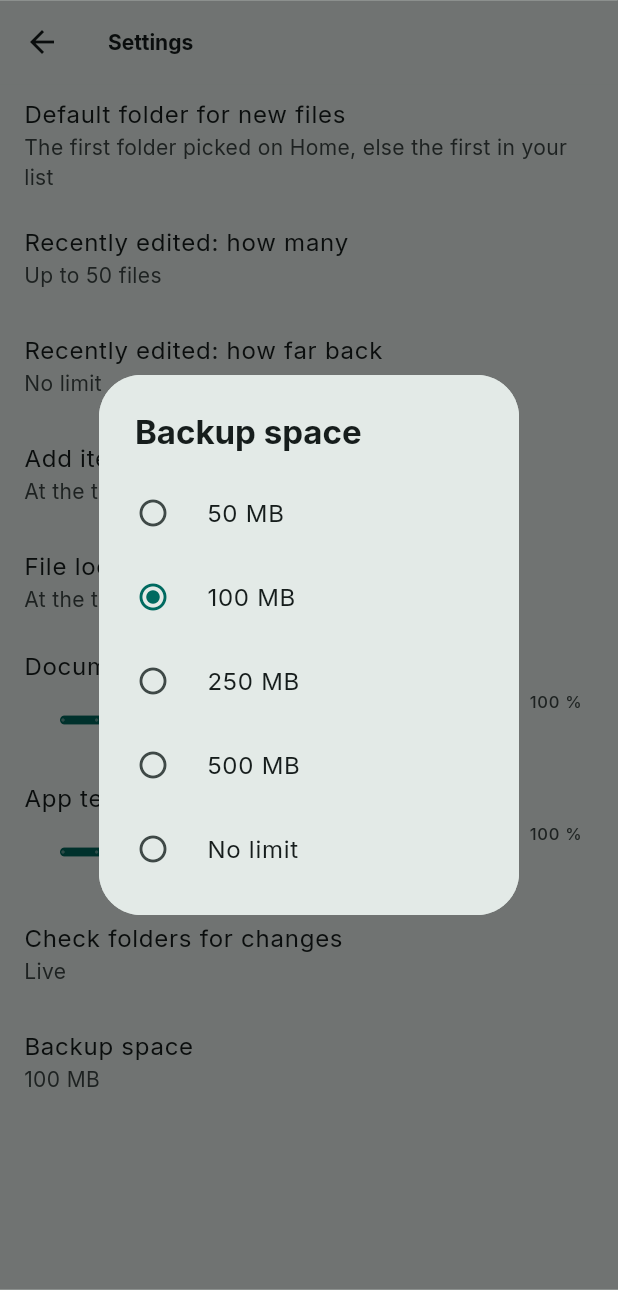
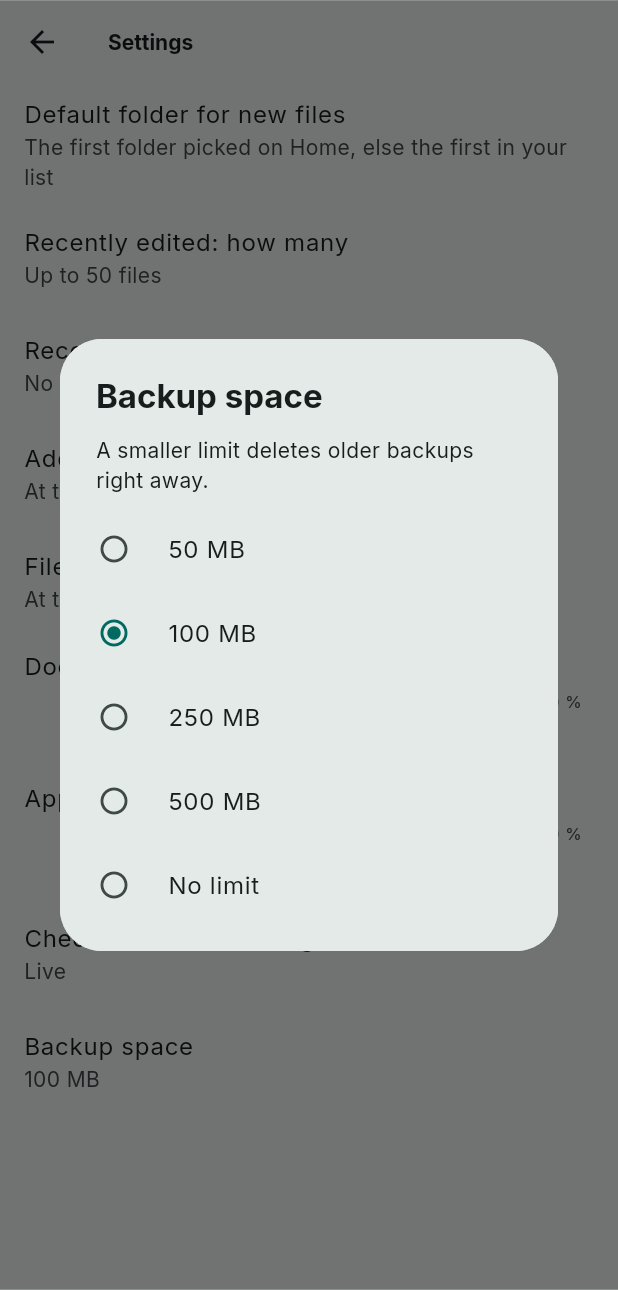
Features page: Backup space screenshot with its note

diff --git a/docs/features.md b/docs/features.md
@@ -136,7 +136,7 @@ backup stays its full 7 days.
 
 <img src="screenshots/backups/document_backups_desktop.png" width="600" alt="The backups of one document, newest first">
 <img src="screenshots/backups/undo_end_notice_desktop.png" width="600" alt="A note at the bottom: nothing more to undo since you opened the file, with a Backups button">
-<img src="screenshots/backups/backup_space_touch.png" width="300" alt="Settings on a phone: Backup space, from 50 MB to no limit, 100 MB picked">
+<img src="screenshots/backups/backup_space_touch.png" width="300" alt="Settings on a phone: Backup space, from 50 MB to no limit, 100 MB picked, with a note that a smaller limit deletes older backups right away">
 
 ## Editing a document
 
